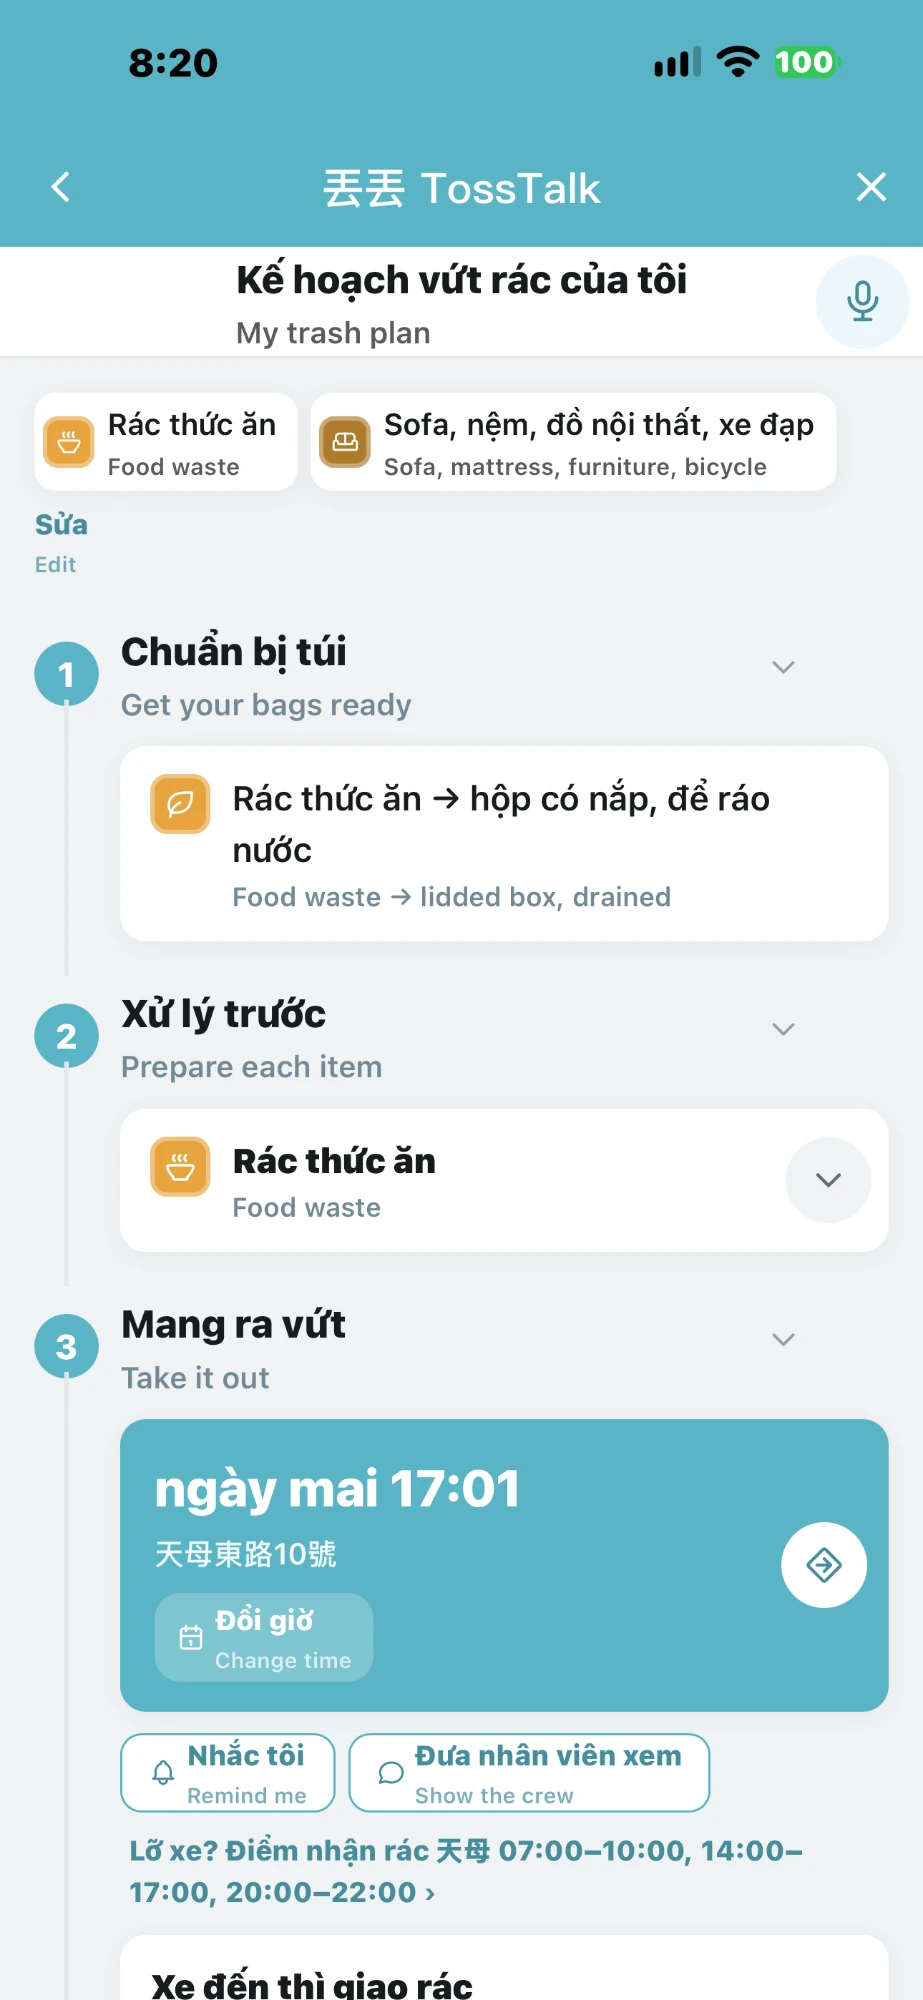
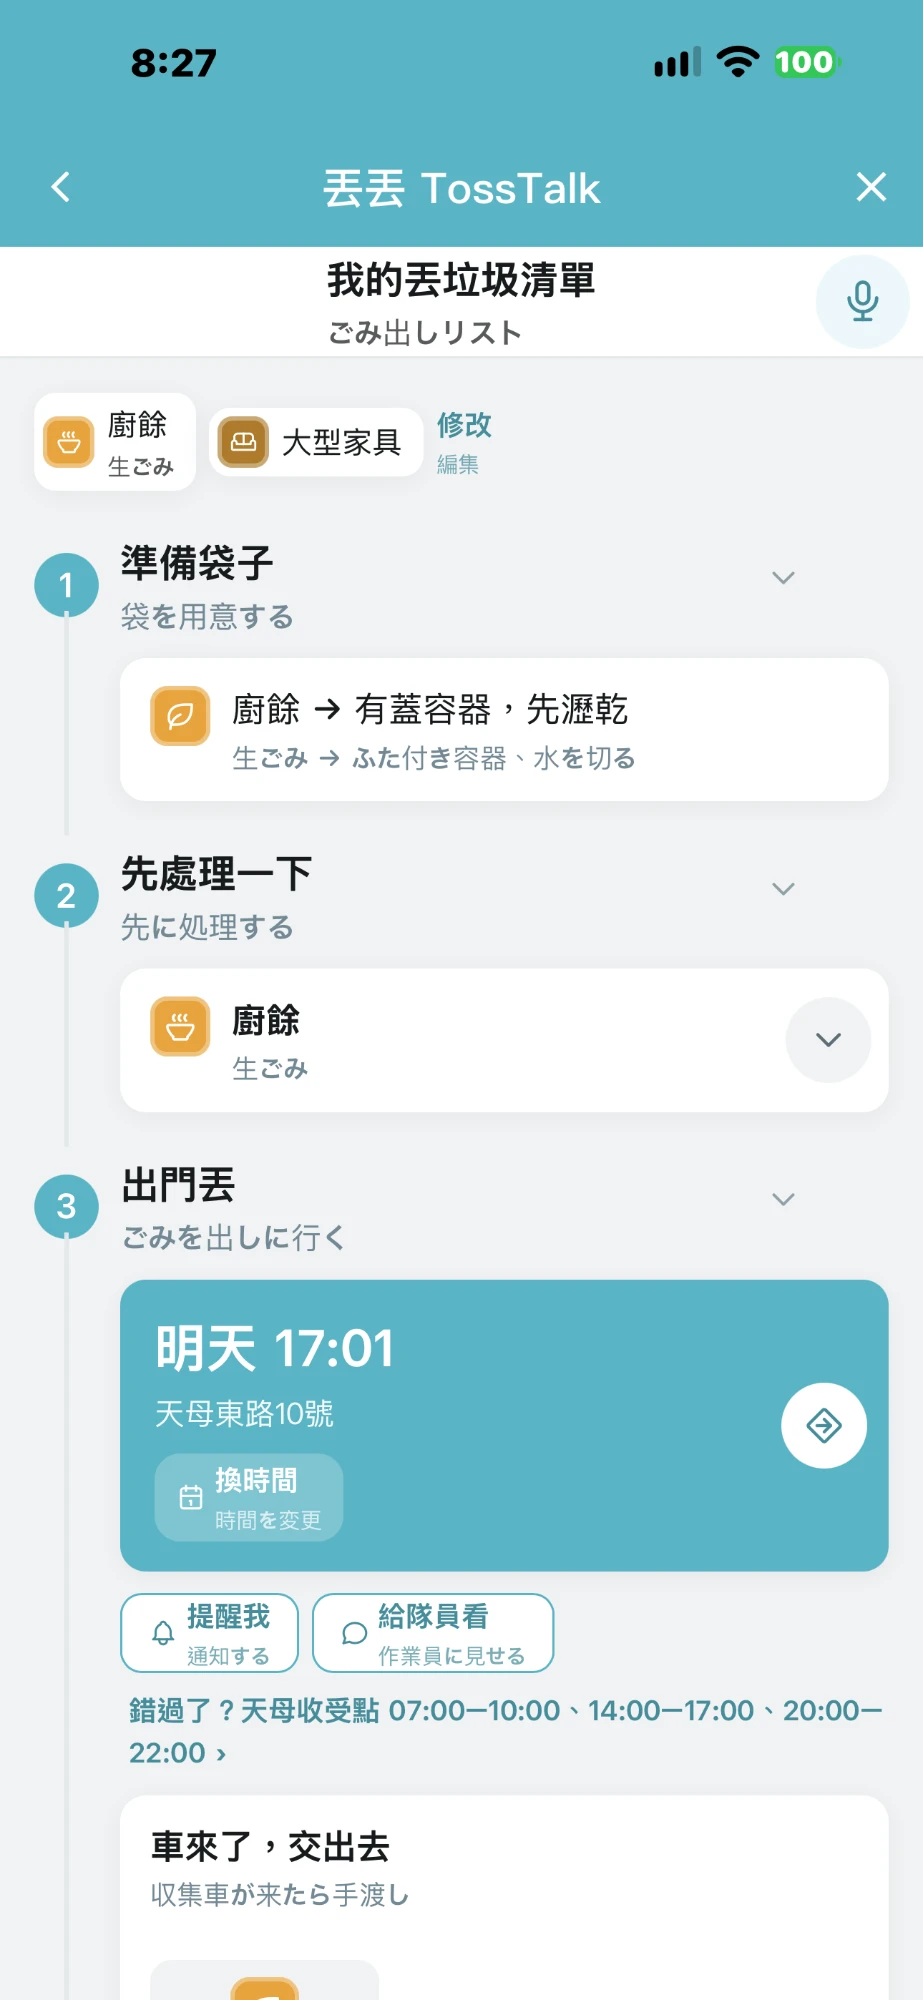
docs(readme): overview's third phone reads 支援多語言, Chinese with Japanese
The third phone is now an iPhone screenshot of the step list in Chinese
with Japanese underneath, and its title is 支援多語言 instead of
丟丟 TossTalk.

diff --git a/docs/readme/overview.html b/docs/readme/overview.html
@@ -39,7 +39,7 @@ h1 { margin: 22px 0 10px; font-size: 60px; line-height: 1.2; font-weight: 600; }
     <div class="phone p3"><img src="screen-diudiu.png" alt=""></div>
     <div class="cap c1">拍一拍就知道<span>在手機上辨識，不上傳</span></div>
     <div class="cap c2">回收小里長<span>給兒童：注音、掃一掃</span></div>
-    <div class="cap c3">丟丟 TossTalk<span>給外籍人士：8 種語言對照</span></div>
+    <div class="cap c3">支援多語言<span>給外籍人士：8 種語言對照</span></div>
   </div>
 </div>
 </body></html>
